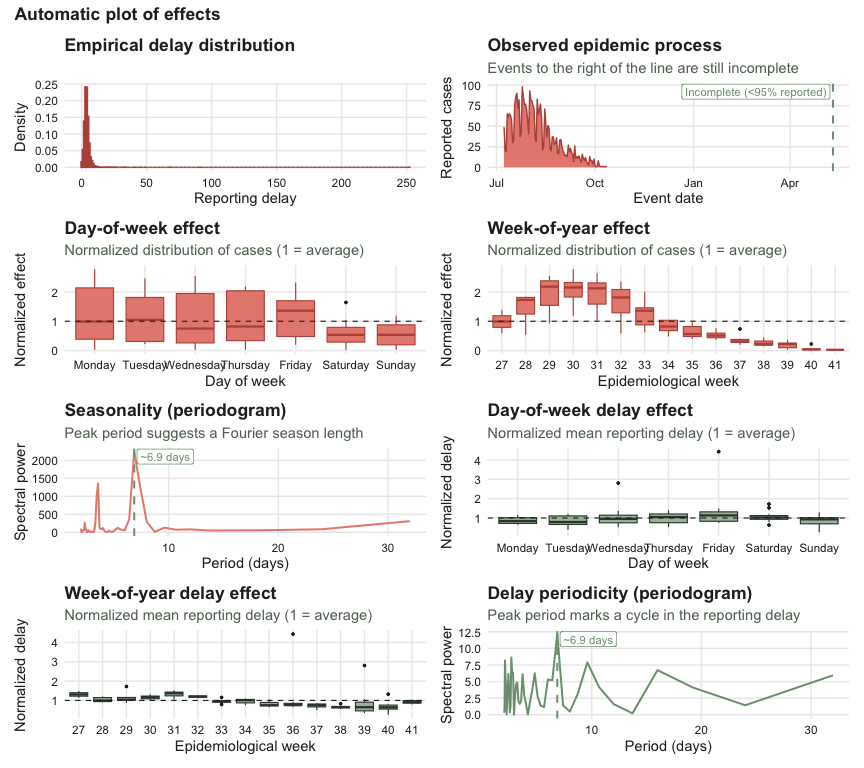
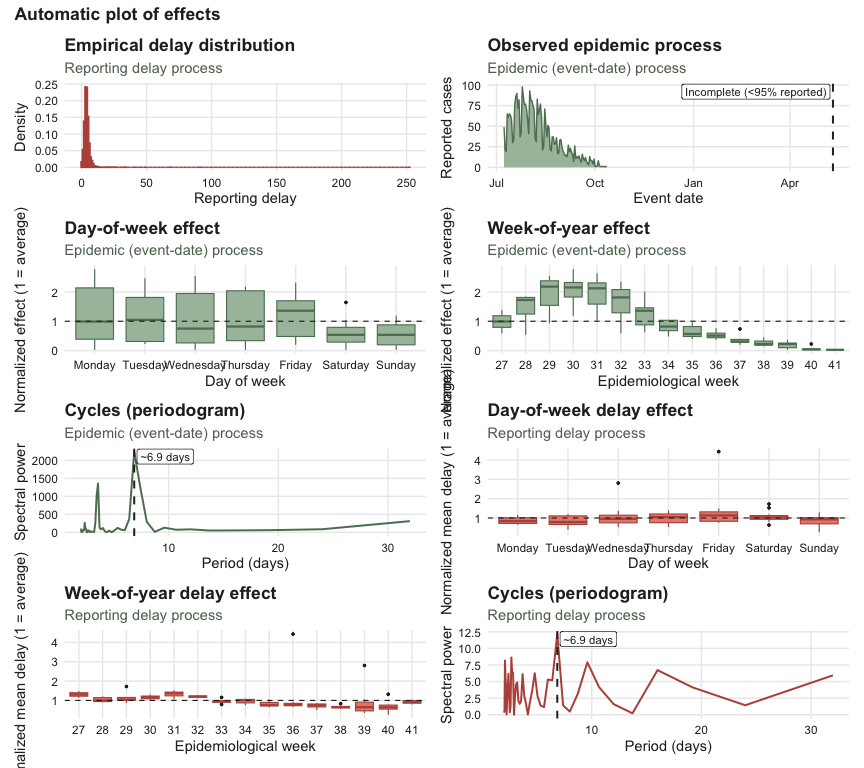
Remove plot_reporting_v from public API
Move plot_reporting_v() to devel/removed_plots.R as it has been superseded by plot_reporting_hexamap(). Remove associated exports, tests, and documentation. Fix broken markdown links in README and standardize unicode arrows to ASCII in documentation. Disable parallel testing in testthat config.

diff --git a/README.md b/README.md
@@ -370,10 +370,10 @@ test_delay_changepoint(covidat_now)
 As context, on August 10th 2020 the [Colombian government anounced the
 massive use of antigen
 testing](https://www.semana.com/que-son-las-pruebas-de-antigeno-y-quien-las-provee-en-colombia/692542/)
-for COVID-19 and in August 25th implemented the [PRASS
-programme](https://revistas.saludcapital.gov.co/index.php/BED/article/view/228/379.)
-which shifted the sampling and reporting paradigm for the country. These
-are the changes potentially identified by `test_delay_changepoint()`.
+for COVID-19 and in August 25th implemented the **PRASS
+programme\]**which shifted the sampling and reporting paradigm for the
+country (*Osorio Saldarriga et al*). These are the changes potentially
+identified by `test_delay_changepoint()`.
 
 > \[!NOTE\] Pettitt’s test in `test_delay_changepoint()` detects only
 > one change point: the largest one. If your data has more than one
@@ -426,7 +426,7 @@ covidat_now %>%
     #> # ℹ 292 more rows
 
 Additional batch detection tools can be found in the [corresponding
-article]((https://rodrigozepeda.github.io/tbl.now/articles/Example.html)).
+article](https://rodrigozepeda.github.io/tbl.now/articles/Example.html).
 
 ## Extreme delays
 
